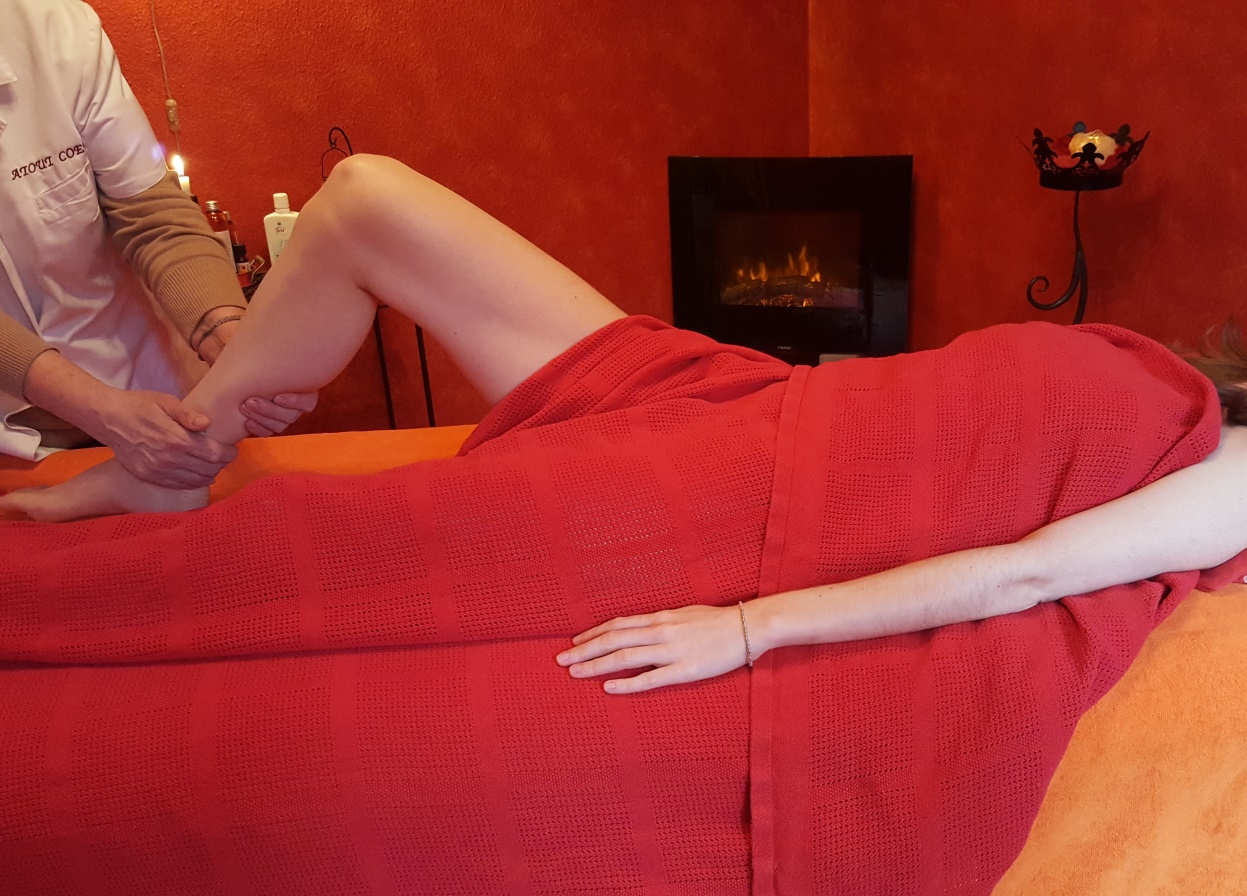
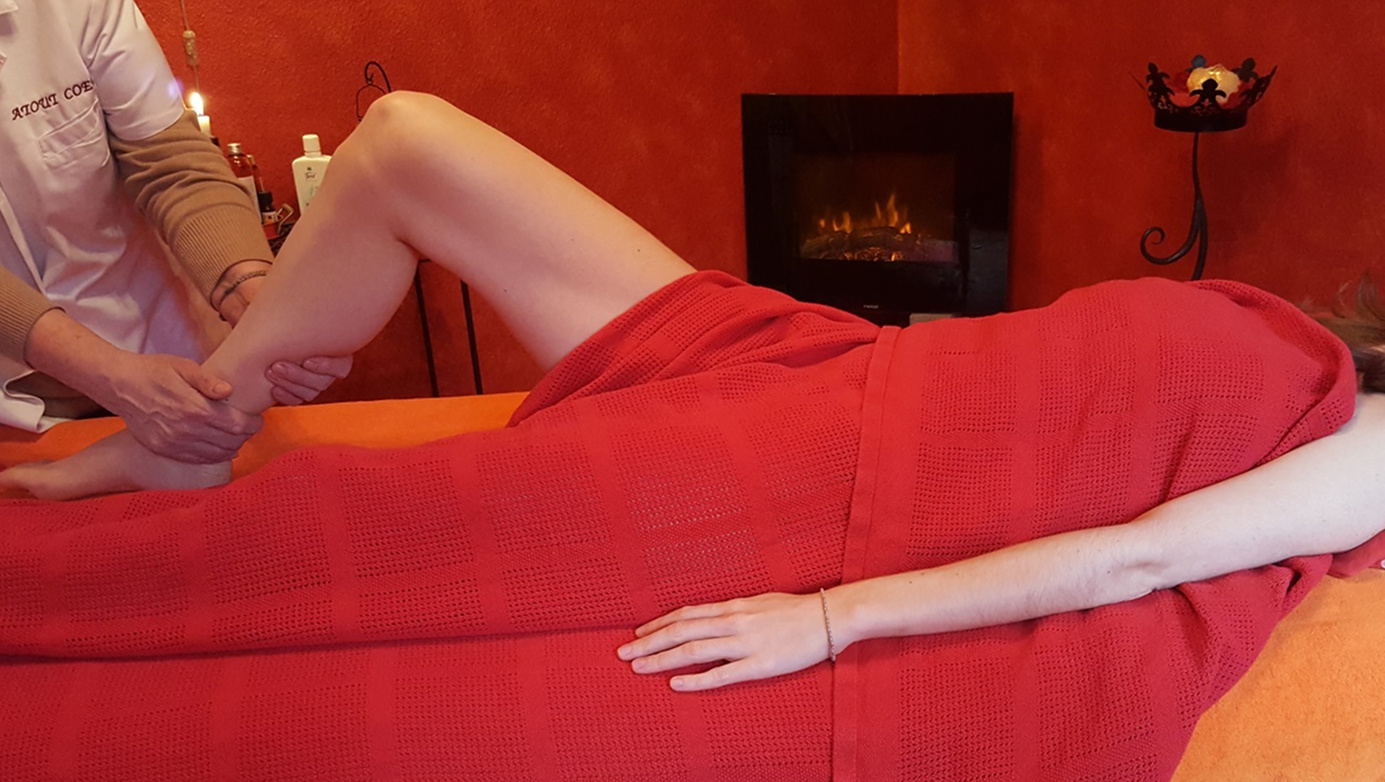
Version 0.9.1

diff --git a/soins.html b/soins.html
@@ -17,7 +17,6 @@
             <div class="collapse navbar-collapse">
               <ul class="nav navbar-nav">
                 <li><a href="index.html">Accueil</a> </li>
-                <li><a href="apropos.html">À propos</a></li>
                 <li class="dropdown">
                   <a href="#" id="active" class="dropdown-toggle" data-toggle="dropdown" role="button"
                                                                                          aria-expanded="false">Soins <span class="caret"></span></a>
@@ -28,7 +27,6 @@
                     <li><a href="soins.html#Reflexologie_du_bebe">Réflexologie du bébé</a></li>
                     <li><a href="soins.html#Massage_energetique">Massage en Lemniscate</a></li>
                     <li><a href="soins.html#Purification_tibetaine">Purification tibétaine</a></li>
-                    <li><a href="soins.html#Massage_ayurvedique">Massage ayurvédique</a></li>
                     <li><a href="soins.html#Drainage_lymphatique">Drainage lymphatique</a></li>
                     <li><a href="soins.html#massage_breuss">Massage du dos Breuss</a></li>
                     <li><a href="soins.html#Fleurs_de_Bach">Fleurs de Bach</a></li>
@@ -37,7 +35,8 @@
                 </li>
                 <li><a href="galery.html">Galerie</a> </li>
                 <li><a href="informations.html">Tarifs</a>
-                  <li><a href="contact.html">Contact</a></li>
+                <li><a href="contact.html">Contact</a></li>
+                <li><a href="apropos.html">À propos</a></li>
               </ul>
             </div><!-- /.navbar-collapse -->
           </div><!-- /.container-fluid -->
@@ -45,7 +44,6 @@
 
         <div class="row soins", id="page">
           <div class="col-md-12">
-            <h1>Les différents Soins</h1>
 
             <div class="row soins">
               <h2 class="soins" id="Reflexologie">Réflexologie</h2>
@@ -56,7 +54,7 @@
                 </p>
               </div>
               <div class="col-md-5">
-                <img class="img-rounded" src="img/soins/reflexo.jpg" 
+                <img class="img-rounded" src="img/soins/reflexo_scaled.png" 
                                          width="100%" align="right"</img>
               </div>
 
@@ -65,7 +63,7 @@
               <h2 class="soins" id="Reflexologie_du_bebe">Réflexologie du bébé (0-7ans)</h2>
               <hr>
               <div class="col-md-5">
-                <img class="img-rounded" src="img/soins/reflexo_bebe.jpg" 
+ 5               <img class="img-rounded" src="img/soins/baby_foot_r.jpg" 
                                          width="100%" align="left"</img>
               </div>
               <div class="col-md-7">
@@ -76,11 +74,11 @@
             </div>
 
             <div class="row soins">
-              <h2>Massage en Lemniscate &#x221e;</h2>
+              <h2 class="soins" id="Massage_energetique">Massage en Lemniscate &#x221e;</h2>
               <hr>
               <div class="col-md-7">
                 <p class="soins" >
-                Massage doux avec application d’huiles, pratiqué sur la globalité du corps en reproduisant le mouvement du ou signe de l’infini "&#x221e;", de nos liquides internes et des respirations subtiles et pulmonaires. Par sa rythmicité, il va apporter une détente physique et psychique et ainsi permettre de faire face avec plus de sérénité aux problèmes de la vie quotidienne. Mot clé de la Lemniscate : Harmonie.
+                Massage doux avec application d’huiles, pratiqué sur la globalité du corps en reproduisant le mouvement du (&#x221e;) ou signe de l’infini , de nos liquides internes et des respirations subtiles et pulmonaires. Par sa rythmicité, il va apporter une détente physique et psychique et ainsi permettre de faire face avec plus de sérénité aux problèmes de la vie quotidienne. Mot clé de la Lemniscate : Harmonie.
                 </p>
               </div>
               <div class="col-md-5">
@@ -93,7 +91,7 @@
               <h2 class="soins" id="Purification_tibetaine">Purification tibétaine ou "chauffe de l'ombilic</h2>
               <hr>
               <div class="col-md-5">
-                <img class="img-rounded" src="img/soins/purification.jpg" 
+                <img class="img-rounded" src="img/soins/chauffe.jpg" 
                                          width="100%" align="left"</img>
               </div>
               <div class="col-md-7">

diff --git a/informations.html b/informations.html
@@ -17,7 +17,6 @@
             <div class="collapse navbar-collapse">
               <ul class="nav navbar-nav">
                 <li><a href="index.html">Accueil</a> </li>
-                <li><a href="apropos.html">À propos</a></li>
                 <li class="dropdown">
                   <a href="#" class="dropdown-toggle" data-toggle="dropdown" role="button"
                                                                              aria-expanded="false">Soins <span class="caret"></span></a>
@@ -36,7 +35,8 @@
                 </li>
                 <li><a href="galery.html">Galerie</a> </li>
                 <li class="active"><a href="informations.html">Tarifs</a>
-                  <li><a href="contact.html">Contact</a></li>
+                <li><a href="contact.html">Contact</a></li>
+                <li><a href="apropos.html">À propos</a></li>
               </ul>
             </div><!-- /.navbar-collapse -->
           </div><!-- /.container-fluid -->
@@ -58,25 +58,25 @@ d’assurances complémentaires.
               <p><strong>Tarifs</strong></p>
               <table class="table-condensed" id="tarifs" style="font-size: 13pt; ">
                 <tr>
-                  <td>Réflexologie</td> <td>1h</td> <td>Fr. 100.00</td>
+                  <td>Réflexologie</td> <td>1h</td> <td id=chf>100.-</td>
                 </tr>
                 <tr>
-                  <td>Réflexologie bébé et petit enfant</td> <td>30 à 45 min.</td>  <td>Fr. 60.00</td>
+                  <td>Réflexologie bébé et petit enfant</td> <td>30 à 45 min.</td>  <td id=chf>60.-</td>
                 </tr>
                 <tr>
-                  <td>Massage énergétique en Lemniscate</td> <td>1h</td>  <td>Fr. 100.00</td>
+                  <td>Massage énergétique en Lemniscate</td> <td>1h</td>  <td id=chf>100.-</td>
                 </tr>
                 <tr>
-                  <td>Purification tibétaine ou « chauffe de l’ombilic* </td> <td>1h15 </td> <td>Fr. 120.00</td> 
+                  <td>Purification tibétaine ou « chauffe de l’ombilic* </td> <td>1h15 </td> <td id=chf>120.-</td> 
                 </tr>
                 <tr>
-                  <td>Drainage lymphatique manuel Vodder</td> <td>1h</td> <td>Fr. 100.00</td>  </tr>
+                  <td>Drainage lymphatique manuel Vodder</td> <td>1h</td> <td id=chf>100.-</td>  </tr>
                 <tr>
                 <tr>
-                  <td>Massage du bos Breuss</td> <td>1h</td> <td>Fr. 100.00</td>  </tr>
+                  <td>Massage du bos Breuss</td> <td>1h</td> <td id=chf>100.-</td>  </tr>
                 <tr>
                 <tr>
-                  <td>Fleurs de Bach consultation et flacon</td> <td>30 à 45 min.</td> <td>Fr. 60.00</td>  </tr>
+                  <td>Fleurs de Bach consultation et flacon</td> <td>30 à 45 min.</td> <td id=chf>60.-</td>  </tr>
                 <tr>
                   <td>Bon cadeau</td>  <td></td> <td>Prix selon thérapie choisie</td>
                 </tr>
@@ -85,7 +85,7 @@ d’assurances complémentaires.
           </div>
         </div>
     <div class="row" style="position:absolute; bottom: 0px; width: 100%;">
-    <p>
+    <p style='font-size: 0.6em;'>
     *Soins complet de 4 séances
     </p>
     </div>

diff --git a/apropos.html b/apropos.html
@@ -17,7 +17,6 @@
             <div class="collapse navbar-collapse">
               <ul class="nav navbar-nav">
                 <li><a href="index.html">Accueil</a> </li>
-                <li class="active"><a href="apropos.html">À propos</a></li>
                 <li class="dropdown">
                   <a href="#" class="dropdown-toggle" data-toggle="dropdown" role="button"
                                                                              aria-expanded="false">Soins <span class="caret"></span></a>
@@ -36,7 +35,8 @@
                 </li>
                 <li><a href="galery.html">Galerie</a> </li>
                 <li><a href="informations.html">Tarifs</a>
-                  <li><a href="contact.html">Contact</a></li>
+                <li><a href="contact.html">Contact</a></li>
+                <li class="active"><a href="apropos.html">À propos</a></li>
               </ul>
             </div><!-- /.navbar-collapse -->
           </div><!-- /.container-fluid -->
@@ -47,6 +47,10 @@
 
             <div class="row">
               <div class="col-md-12" style="padding-bottom:5%">
+                <h3> Biographie </h3>
+
+                <hr>
+
                 <p>Contrairement à bon nombre de mes collègues, je n’ai pas eu la vocation de devenir
                 thérapeute depuis petite, on peut même dire que plus jeune, les praticiens de santé
                 m’intriguaient et je m’en méfiais… </p>
@@ -55,8 +59,11 @@
                 revoir mon jugement. Comme quoi !</p> 
                 <p>Forte de cette expérience et me trouvant à la croisée des chemins, il m’est apparu
                 comme une évidence : c’était la voie que je voulais suivre afin de pouvoir en faire
-                profiter d’autres personnes.  J’ai donc commencé, en 2004, à me former
-                professionnellement aux différentes méthodes ci-après : <br><br></p> 
+                profiter d’autres personnes.  <p>J’ai donc commencé, en 2004, à me former
+                professionnellement aux différentes méthodes ci-après. </p><br> 
+
+                <h3>Formations et diplômes</h3>
+                <hr>
                 <ul id='diplome'>
                   <li> Réflexologie plantaire, diplôme avec diverses spécialisations, notamment : </li>
                   <ul style="font-size: 90%;">

diff --git a/css/site.css b/css/site.css
@@ -7,7 +7,7 @@ html {
     height: 100%;
     color: #86181c;
     position: relative;
-    font-size: 170%;
+    font-size: 150%;
     font-family: Papyrus; 
 }
 
@@ -23,7 +23,7 @@ body {
     /* Standard syntax */
     background: repeating-linear-gradient(left, #86181c, #AE1C18 50%, #86181c);
     font-family: Papyrus; 
-    font-size: 15pt;
+    font-size: 1em;
 }
 
 a{ 
@@ -60,12 +60,12 @@ div#galery {
 
 h1 {
     text-align: center;
-    font-size: 3em;
+    font-size: 2.5em;;
 }
 
 h2 {
     padding-top: 1%; 
-    font-size: 2em;
+    font-size: 1.5em;;
 }
 
 
@@ -89,17 +89,26 @@ border-top: 2px solid #86181c;
     }
 
     .navbar-default .navbar-nav > .active{
-    color: #c52413;
+    color: #86181c;
     border-radius: 5pt;
     /*background: #fae9b3;*/
     background-image: url("../img/background3.png");
     }
-     .navbar-default .navbar-nav > .active > a, 
- .navbar-default .navbar-nav > .active > a:hover, 
+
+.navbar-default .navbar-nav > li > a:hover, .navbar-default .navbar-nav > li > a:focus {
+    font-weight: bold;
+    color: #fae9b3;
+}
+
+ .navbar-default .navbar-nav > .active > a:hover {
+    border-color: "red";
+    text-color: "red";
+ }
+ .navbar-default .navbar-nav > .active > a, 
  .navbar-default .navbar-nav > .active > a:focus {
     background-image: url("../img/background3.png");
     /*background: #fae9b3;*/
-    color: #c52413;
+    color: #86181c;
     border-radius: 5pt;
     text-decoration: none;
  }
@@ -154,6 +163,7 @@ border-top: 2px solid #86181c;
     font-size: 90%;
 }
 
+
 .navbar-default .navbar-nav > .open > a,
 .navbar-default .navbar-nav > .open > a:hover,
 .navbar-default .navbar-nav > .open > a:focus {
@@ -185,7 +195,7 @@ background-color: #86181c;
 }
 
 .dropdown-toggle#active {
-    color: #c52413;
+    color: #86181c;
     border-radius: 5pt;
     /*background: #fae9b3;*/
     background-image: url("../img/background3.png");
@@ -199,13 +209,14 @@ div.soins {
 
 p.soins {
     text-align: justify;
+    font-size: 110%;
 }
 
 p#par { 
-    font-size: 100%;
+    font-size: 110%;
     margin-left: auto;
     margin-right: auto;
-    width: 70%;
+    width: 80%;
 }
 
 
@@ -213,11 +224,16 @@ p#par {
 padding-left: 10%;
 width: 50%;
 white-space: nowrap;
+font-size: 1em;
 
 }
 
 #tarifs>tbody>tr>td {
 padding-left: 5%;
+}
+
+#chf {
+text-align: right; 
 }
 
 ul#diplome {

diff --git a/contact.html b/contact.html
@@ -70,7 +70,6 @@ google.maps.event.addDomListener(window, 'load', init_map);
             <div class="collapse navbar-collapse">
               <ul class="nav navbar-nav">
                 <li><a href="index.html">Accueil</a> </li>
-                <li><a href="apropos.html">À propos</a></li>
                 <li class="dropdown">
                   <a href="#" class="dropdown-toggle" data-toggle="dropdown" role="button"
                                                                              aria-expanded="false">Soins <span class="caret"></span></a>
@@ -89,7 +88,8 @@ google.maps.event.addDomListener(window, 'load', init_map);
                 </li>
                 <li><a href="galery.html">Galerie</a> </li>
                 <li><a href="informations.html">Tarifs</a>
-                  <li class="active"><a href="contact.html">Contact</a></li>
+                <li class="active"><a href="contact.html">Contact</a></li>
+                <li><a href="apropos.html">À propos</a></li>
               </ul>
             </div><!-- /.navbar-collapse -->
           </div><!-- /.container-fluid -->
@@ -110,7 +110,7 @@ google.maps.event.addDomListener(window, 'load', init_map);
                 <a href=http://www.atout-coeur.ch> www.atout-coeur.ch</a> <br>
 
                 <img src="img/facebook.jpg" width=20px, height=20px><a href="
-                https://www.facebook.com/pages/Atout-Coeur/705710852875039" style="padding-left:10px">Facebook</a></img>
+                https://www.facebook.com/pages/Atout-Coeur/705710852875039" style="padding-left:10px">Atout-coeur facebook</a></img>
                 <span class="glyphicon icon-facebook"></span> <br>
                 <br>
               </div>
@@ -132,7 +132,7 @@ google.maps.event.addDomListener(window, 'load', init_map);
           <div class="col-md-12">
             <p> <strong><br>Accès</strong></p>
               <p style="padding-left:3%">
-                Situé dans les hauts de Chailly, le cabinet Atout Cœur est à 5 minutes à pied de l’arrêt de bus Valmont desservi par le n°6 Sallaz et le n° 41 Praz-Séchaud.
+                Situé dans les hauts de Chailly, le cabinet Atout Cœur est à 5 minutes à pied de l’arrêt de bus Valmont desservi par le n°6 Praz-Séchaud et le n° 41 Praz-Séchaud.
               </p>
           </div>
 

diff --git a/index.html b/index.html
@@ -17,7 +17,6 @@
               <div class="collapse navbar-collapse">
                 <ul class="nav navbar-nav">
                   <li class="active"><a href="index.html">Accueil</a> </li>
-                  <li><a href="apropos.html">À propos</a></li>
                   <li class="dropdown">
                     <a href="#" class="dropdown-toggle" data-toggle="dropdown" role="button"
                                                                                            aria-expanded="false">Soins <span class="caret"></span></a>
@@ -36,7 +35,8 @@
                   </li>
                   <li><a href="galery.html">Galerie</a> </li>
                   <li><a href="informations.html">Tarifs</a>
-                    <li><a href="contact.html">Contact</a></li>
+                  <li><a href="contact.html">Contact</a></li>
+                  <li><a href="apropos.html">À propos</a></li>
                 </ul>
               </div><!-- /.navbar-collapse -->
             </div><!-- /.container-fluid -->
@@ -47,7 +47,7 @@
       <div class="row" id="logo"> 
         <center><img src="img/logo.png" class="img-responsive" style="width: 25%;">
       </div></center>
-      <div class="row"> <center> <p id="par">Vous souffrez de divers maux, vous êtes stressé(e), fatigué(e), déprimé(e), au bout du rouleau, ou tout simplement avez envie d’un petit moment de bien-être rien que pour vous … Alors prenez vite rendez-vous pour l’une des thérapies suivantes. Vous serez
+      <div class="row"> <center> <p id="par">Vous souffrez de divers maux, vous êtes stressé(e), fatigué(e), déprimé(e), au bout du rouleau, ou tout simplement avez envie d’un petit moment de bien-être rien que pour vous… Alors prenez vite rendez-vous pour l’une des thérapies suivantes. Vous serez
       accueillis dans un espace sympathique et chaleureux et vous n’aurez qu’une chose à faire,
       vous détendre et ne plus penser à rien.</p></center></div>
     </div>

diff --git a/galery.html b/galery.html
@@ -24,7 +24,6 @@
             <div class="collapse navbar-collapse">
               <ul class="nav navbar-nav">
                 <li><a href="index.html">Accueil</a> </li>
-                <li><a href="apropos.html">À propos</a></li>
                 <li class="dropdown">
                   <a href="#" class="dropdown-toggle" data-toggle="dropdown" role="button"
                                                                                          aria-expanded="false">Soins <span class="caret"></span></a>
@@ -43,7 +42,8 @@
                 </li>
                     <li class="active"><a href="galery.html">Galerie</a> </li>
                 <li><a href="informations.html">Tarifs</a>
-                  <li><a href="contact.html">Contact</a></li>
+                <li><a href="contact.html">Contact</a></li>
+                <li><a href="apropos.html">À propos</a></li>
               </ul>
             </div><!-- /.navbar-collapse -->
           </div><!-- /.container-fluid -->

diff --git a/README.md b/README.md
@@ -4,19 +4,20 @@ Repo to store atoutcoeur website done as a side project and to learn more about 
 
 ### Changelog
 
-#### v0.9.1 (todo)
-
+#### v0.9.1 (current)
 * Correct the title in Soins page (fontsize)
 * Remove the ... in the index page
 * Change the image sizes in the Soins page
 * Put apropos at the end (before contact or after)
 * Make the apropos page formating nicer
-* Change color of background in the navbar
-* Change the color of the font when highlight in navbar
 * Size of the background to 2000x1000
+* Image baby unzoomed
+* Width of the index page larger
+* Tarif Align the 60 to the 100 on the right
+* Change the color of the font when highlight in navbar
 
 
-#### v0.9.0 (current)
+#### v0.9.0 
 
 * Image added to repo
 * New image 
